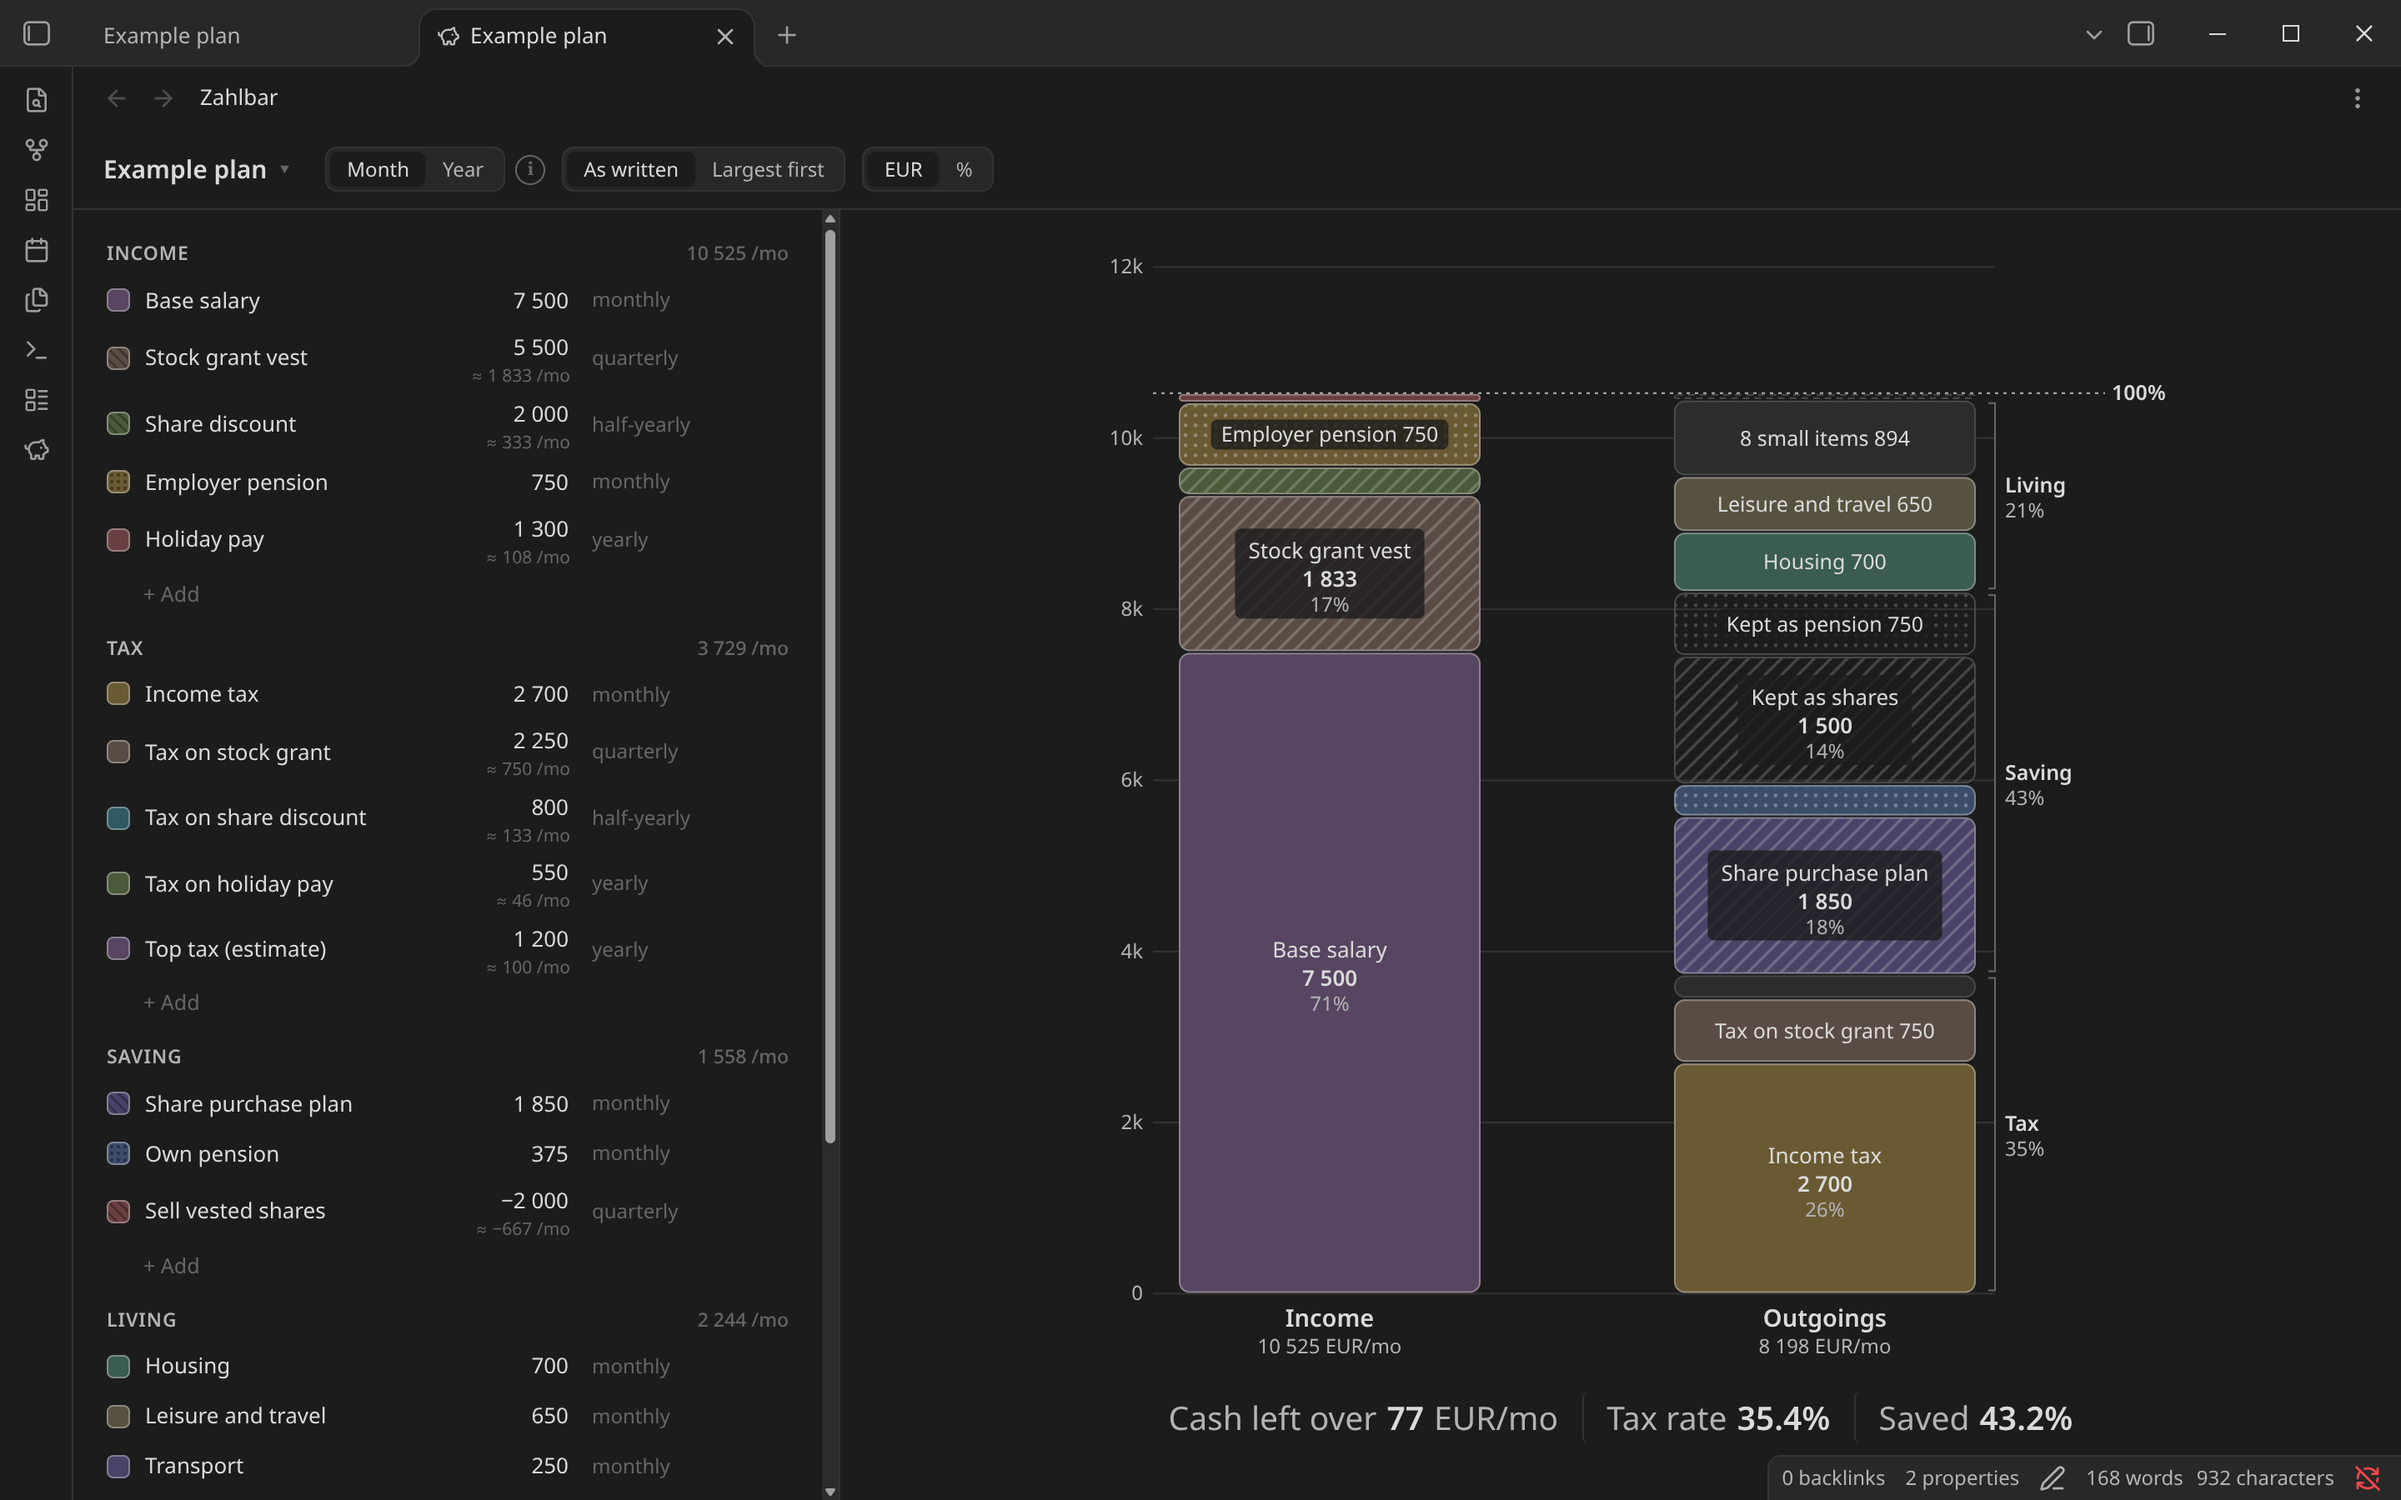
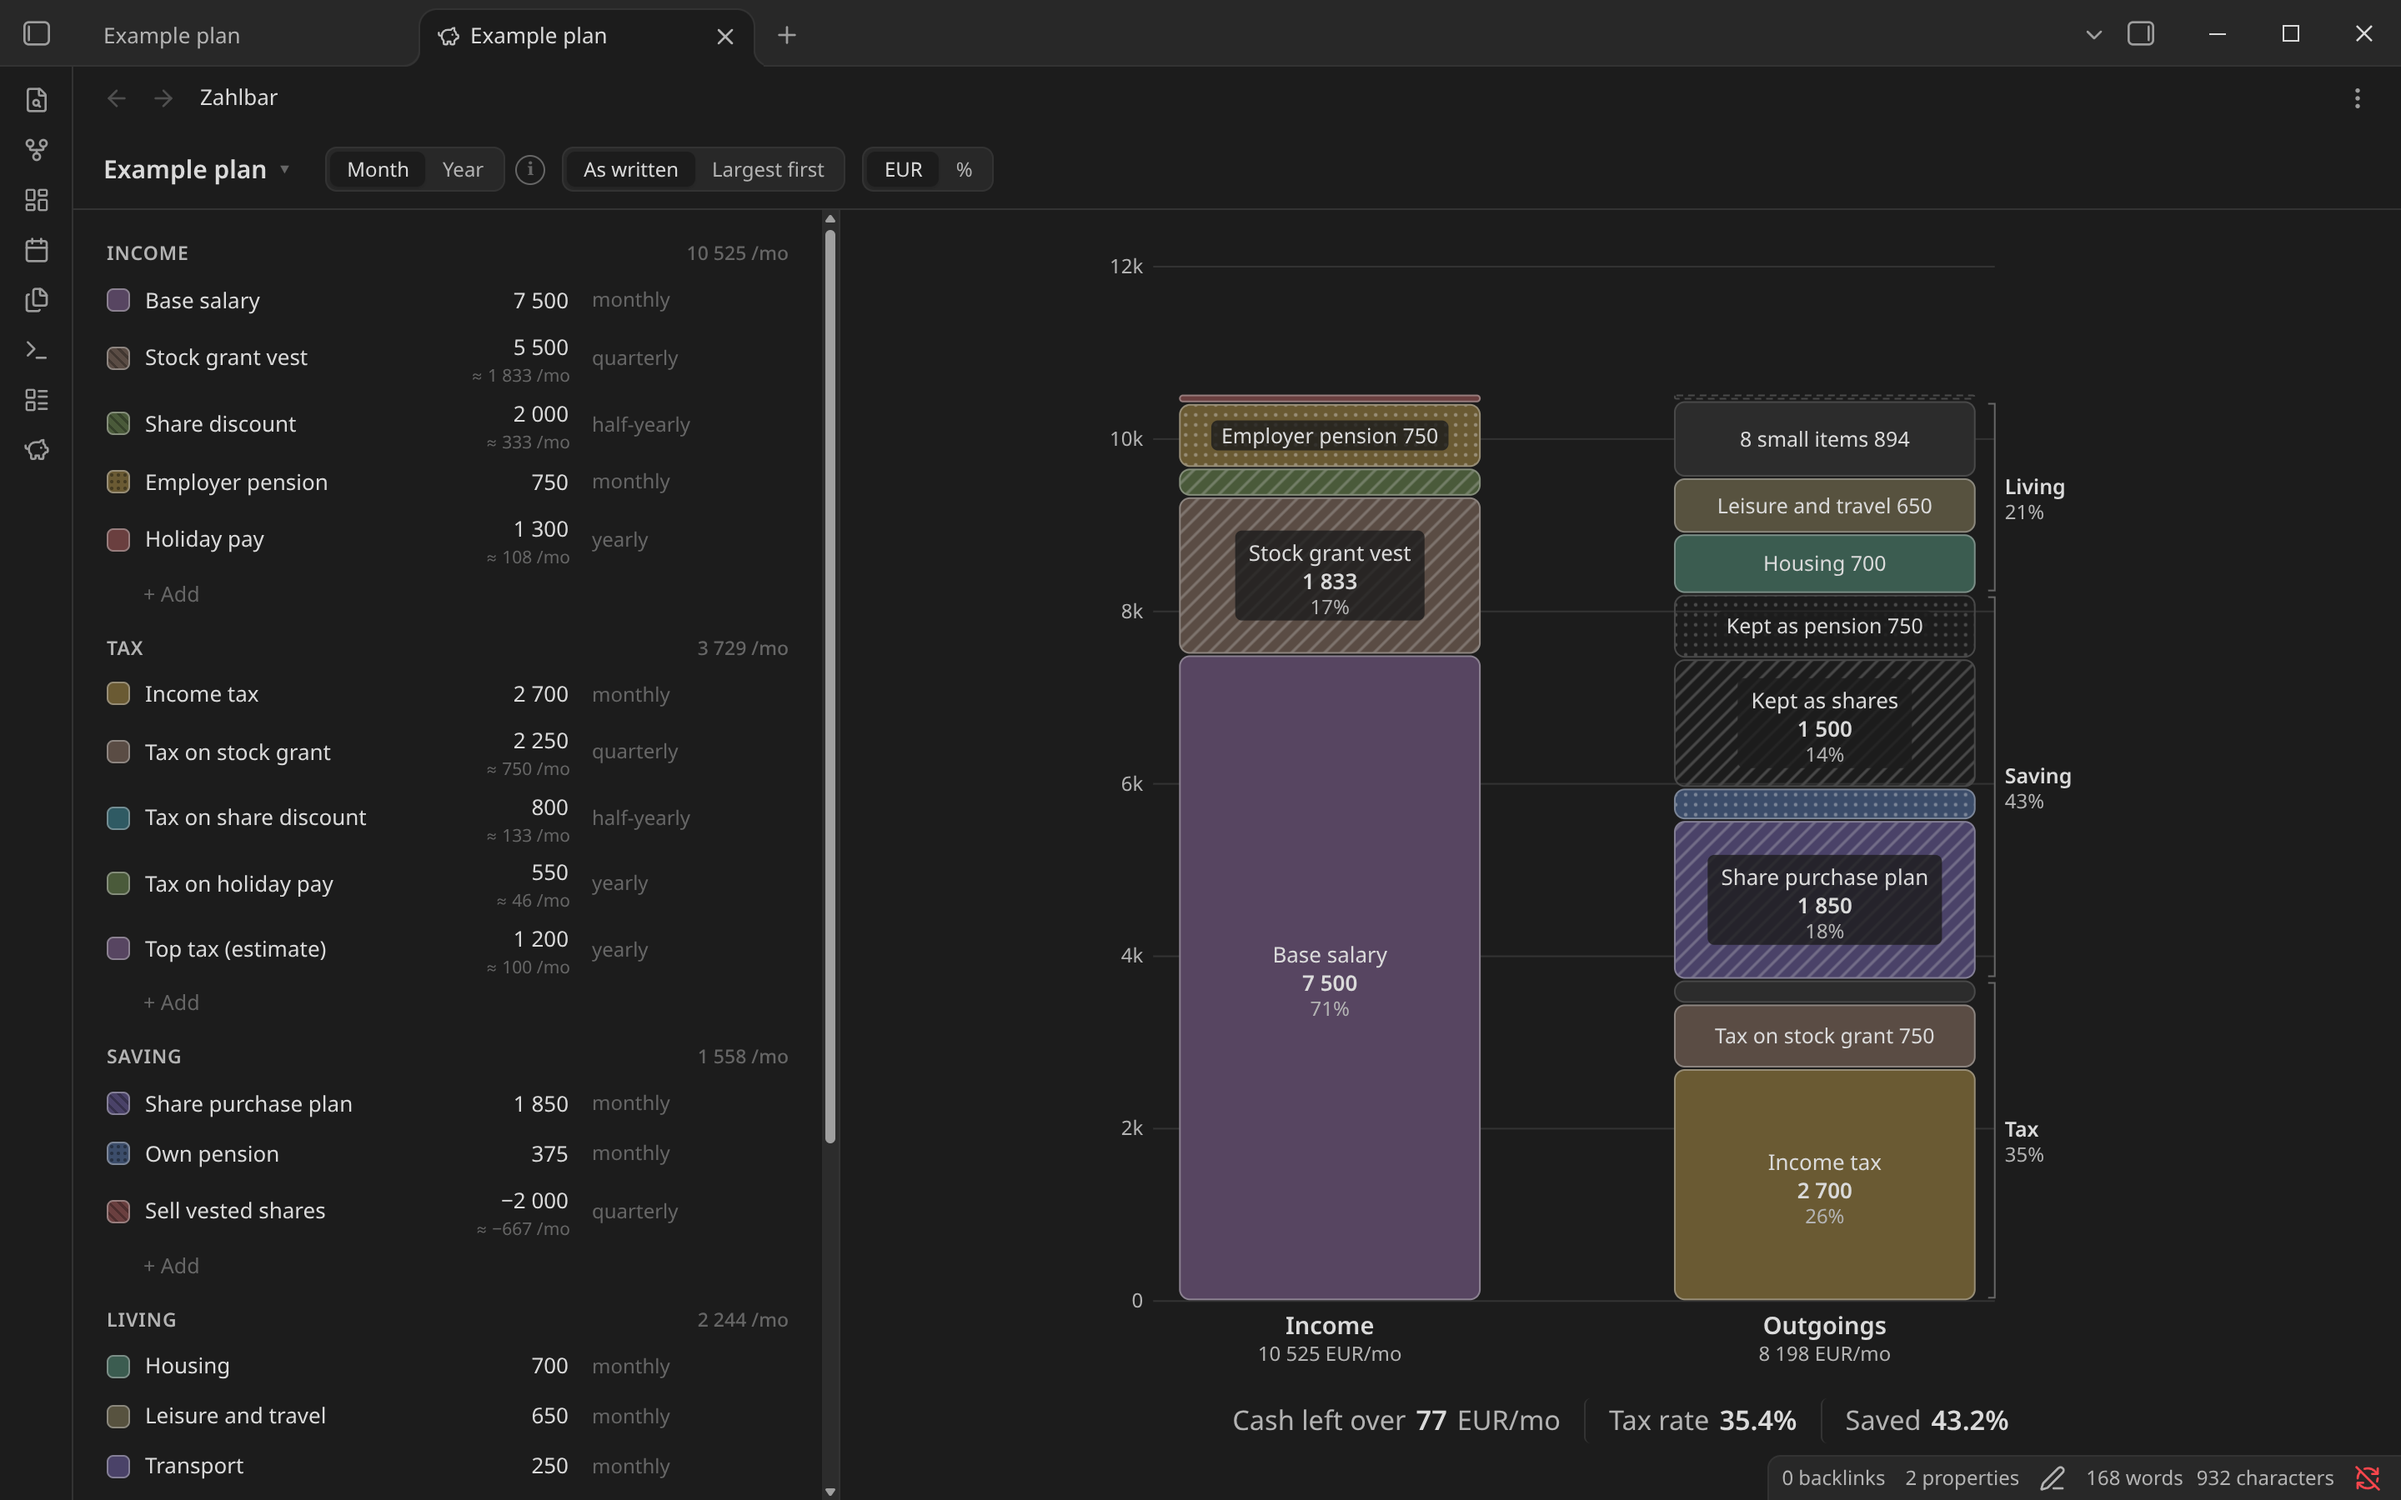
Metrics at 1.25x, 100% line only when something sits on top of income, build steps in Install

diff --git a/styles.css b/styles.css
@@ -130,7 +130,7 @@ body.zahlbar-grabbing, body.zahlbar-grabbing * { cursor: grabbing !important; us
 .zahlbar-chart .zahlbar-seg { cursor: pointer; transition: opacity 0.12s; }
 .zahlbar-chart.is-dimming .zahlbar-seg:not(.is-hl) { opacity: 0.35; }
 /* one quiet line, label then value, like Obsidian's properties. Bottom padding keeps it clear of the status bar. */
-.zahlbar-metrics { display: flex; flex-wrap: wrap; justify-content: center; row-gap: 4px; padding: 10px 22px 34px; font-size: calc(var(--font-ui-small) * 1.5); }
+.zahlbar-metrics { display: flex; flex-wrap: wrap; justify-content: center; row-gap: 4px; padding: 10px 22px 34px; font-size: calc(var(--font-ui-small) * 1.25); }
 .zahlbar-metric { display: flex; align-items: baseline; gap: 6px; padding: 3px 14px; border-left: 1px solid var(--background-modifier-border); border-radius: 4px; cursor: default; }
 .zahlbar-metric:first-child { border-left: 0; }
 .zahlbar-metric:hover { background: var(--background-modifier-hover); }

diff --git a/src/obsidian/chart.ts b/src/obsidian/chart.ts
@@ -142,8 +142,9 @@ export function drawChart(svg: SVGSVGElement, input: ChartInput, W: number, Hbox
     svg.append(s("line", { class: "zahlbar-grid", x1: axL, x2: brx + 4, y1: y(v), y2: y(v) }));
     svg.append(s("text", { class: "zahlbar-faint", x: axL - 6, y: y(v) + 4, "text-anchor": "end" }, pctMode ? `${Math.round(i * stepP)}%` : formatTick(v)));
   }
-  if (T.income > 0) {
-    // where income ends: everything above this line on Outgoings is more than comes in
+  // where income ends. Only drawn when something sits on top of income (a shortfall, or shares you already held),
+  // otherwise it would just repeat the top of the Income bar.
+  if (T.income > 0 && T1 > T.income + 0.5) {
     svg.append(s("line", { class: "zahlbar-ref", x1: axL, x2: refEnd, y1: y(T.income), y2: y(T.income) }));
     svg.append(s("text", { class: "zahlbar-bold zahlbar-small", x: refEnd + 4, y: y(T.income) + 4 }, "100%"));
   }

diff --git a/README.md b/README.md
@@ -11,7 +11,7 @@ The name is German for payable, and also reads as *Zahl* (number) plus bar.
 
 ## Install
 
-Zahlbar isn't in the community plugin list yet. Download `main.js`, `manifest.json` and `styles.css` from the latest release into `<vault>/.obsidian/plugins/zahlbar/` and enable it under Community plugins. Or build it from source, see below.
+Zahlbar isn't in the community plugin list yet. Download `main.js`, `manifest.json` and `styles.css` from the latest release into `<vault>/.obsidian/plugins/zahlbar/` and enable it under Community plugins. To build it yourself, run `npm install && npm run build`.
 
 ## Try it
 
@@ -44,18 +44,6 @@ currency: EUR
 ```
 
 Amounts are per occurrence and monthly unless you say otherwise. `{shares}` and `{pension}` mark money you can't spend, and on a tax line `{shares}` means it's paid by selling shares. A negative Saving line takes money out. Strike a line through to leave it out of the totals. [FORMAT.md](FORMAT.md) has the full syntax and how the totals are calculated.
-
-## Development
-
-```bash
-npm install
-npm run build
-npm test
-npm run harness
-npm run install:vault -- "/path/to/vault"
-```
-
-`src/core` parses, writes and computes plans without touching Obsidian. The harness runs the real pane in headless Chromium against a stubbed Obsidian.
 
 ## Licence
 
